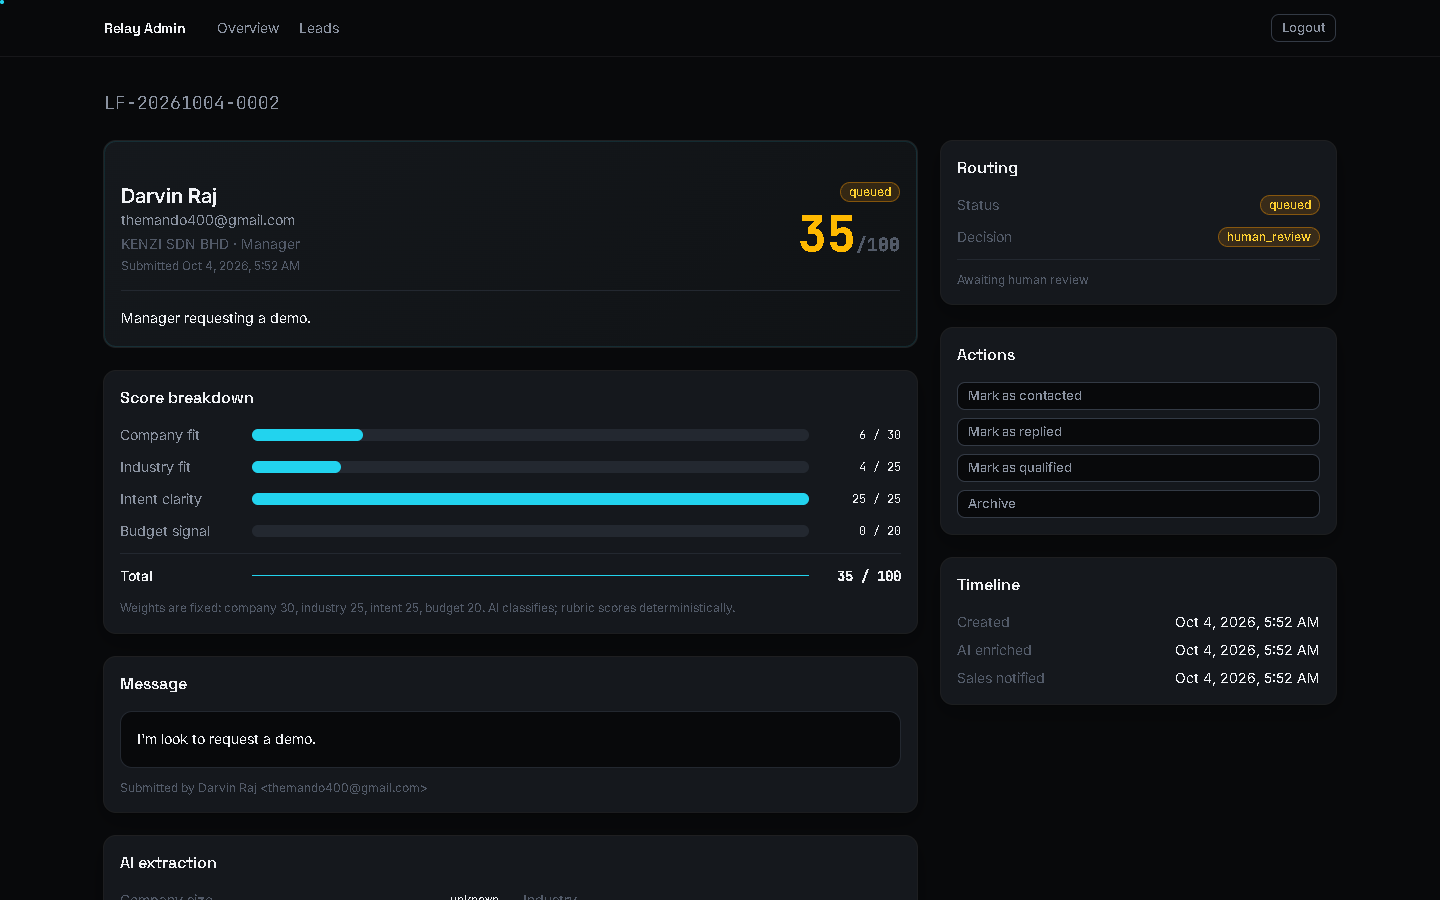
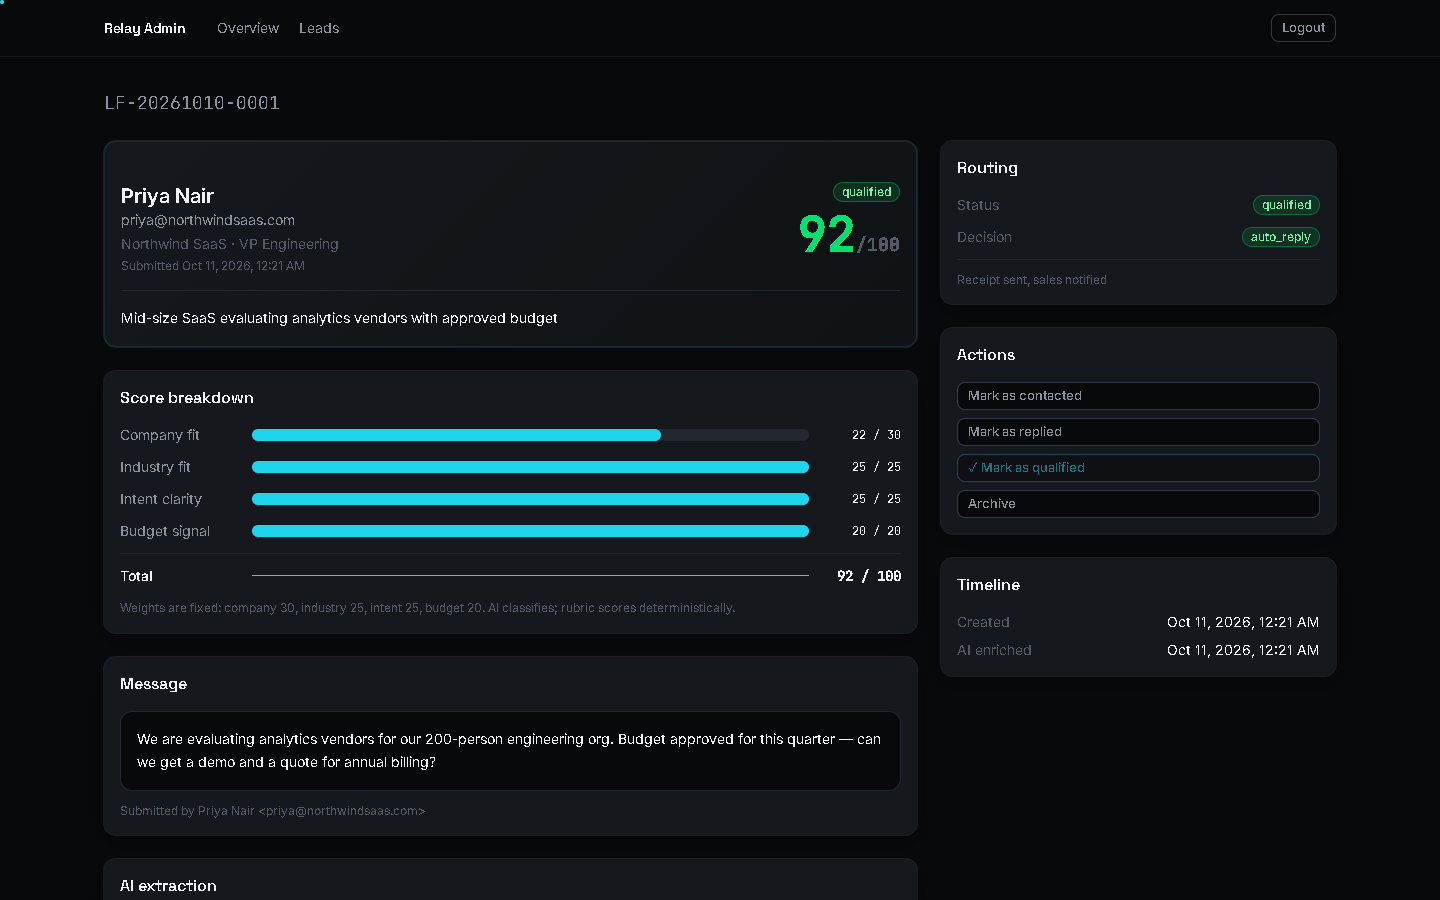
docs: replace case study screenshots after DB re-seed (removed visitor row)

diff --git a/app/admin/page.tsx b/app/admin/page.tsx
@@ -14,6 +14,11 @@ import { timeAgo } from '@/lib/format';
 import { StatusBadge } from '@/components/admin/StatusBadge';
 import type { Lead } from '@/lib/leads/types';
 
+// Must never prerender: this page reads live lead data (including PII).
+// Without this, `next build` bakes a static snapshot of the table at build
+// time and serves it to every admin visitor indefinitely.
+export const dynamic = 'force-dynamic';
+
 export default async function AdminOverviewPage() {
   const db = createAdminClient();
 
